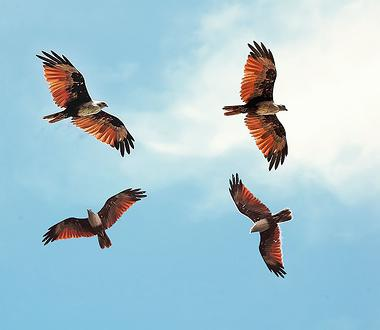
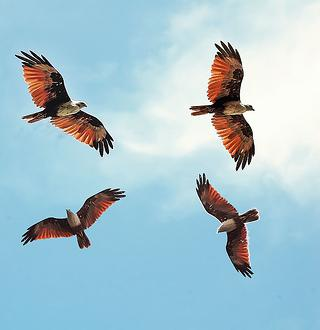
made smaller bird example

diff --git a/main.py b/main.py
@@ -101,7 +101,7 @@ import image
 #shrinking birds by 120 pixels
 
 # im = image.sc_Image.from_filepath("images/birds.jpg")
-# im.shrink(120,orientation = 'vertical', energy = 'kroon', alg = 'dyn')
+# im.shrink(180,orientation = 'vertical', energy = 'kroon', alg = 'dyn')
 # im.to_jpeg("images/birds_shrank.jpg")
 
 
